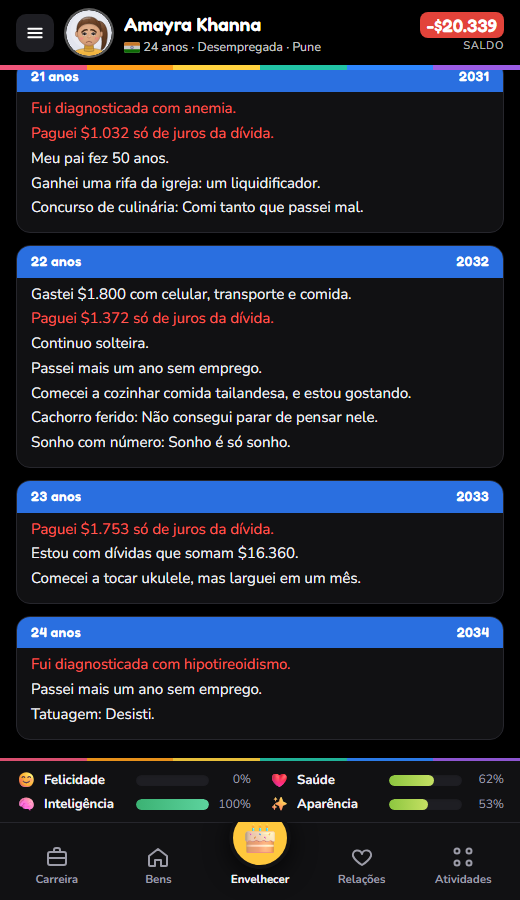
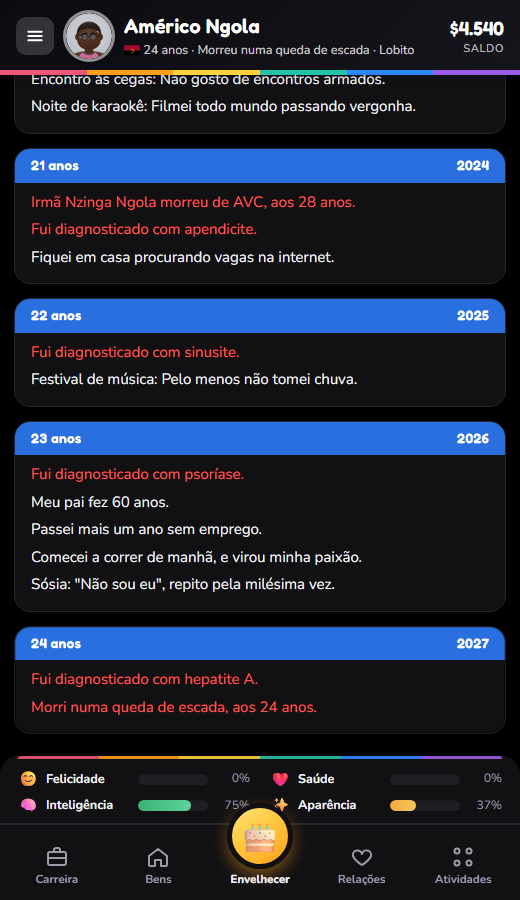
v1.8: visual novo
O botão de Envelhecer não fica mais cortado (a barra de baixo passa por
cima dos atributos). Cabeçalho em degradê, cartões e painéis mais
arredondados, alça nos painéis, animação nas janelas de evento, botões e
seções novos. Imagens do README atualizadas.

diff --git a/src/style.css b/src/style.css
@@ -229,3 +229,87 @@ input.in,select.in{font:inherit;color:var(--ink);background:var(--surface);borde
 /* aventura (modos fictícios) */
 #nav .scic{font-size:22px;line-height:24px;height:24px}
 .scy h3 span:last-child{max-width:62%;text-align:right;white-space:nowrap;overflow:hidden;text-overflow:ellipsis}
+
+/* ================= Visual 1.8: acabamento geral ================= */
+:root{ --r-card:16px; --r-row:14px; --shadow-sm:0 1px 2px rgba(20,28,60,.06),0 2px 8px rgba(20,28,60,.06); --shadow-md:0 4px 14px rgba(20,28,60,.12); --brand-grad:linear-gradient(135deg,#2E6BFF 0%,#4F86FF 55%,#6C5CE7 100%); --sun-grad:linear-gradient(145deg,#FFE27A 0%,#FFC83D 45%,#FF9F1C 100%); }
+@media (prefers-color-scheme: dark){ :root:not([data-theme="light"]){ --shadow-sm:none; --shadow-md:0 6px 20px rgba(0,0,0,.6); --brand-grad:linear-gradient(135deg,#0B0B10,#15151C); } }
+:root[data-theme="dark"]{ --shadow-sm:none; --shadow-md:0 6px 20px rgba(0,0,0,.6); --brand-grad:linear-gradient(135deg,#0B0B10,#15151C); }
+/* cabeçalho com degradê, avatar com anel e dinheiro em pílula */
+#hdr{background:var(--brand-grad);padding:12px 16px 16px;box-shadow:0 2px 10px rgba(20,28,60,.18);z-index:3}
+#hdr .avatar{box-shadow:0 0 0 3px rgba(255,255,255,.55),0 3px 10px rgba(0,0,0,.25);transition:transform .2s}
+#hdr .avatar:hover{transform:scale(1.05)}
+#hName{font-size:20px;letter-spacing:.01em}
+#hMoney{font-size:19px}
+#hdr .icon-btn{background:rgba(255,255,255,.16);backdrop-filter:blur(4px);transition:background .2s}
+#hdr .icon-btn:hover{background:rgba(255,255,255,.26)}
+/* diário: cartões mais leves e legíveis */
+#log{gap:14px;padding:14px 14px 22px;scroll-behavior:smooth}
+.yr{border-radius:var(--r-card);box-shadow:var(--shadow-sm);padding:0 16px 10px}
+.yr h3{margin:0 -16px 8px;padding:7px 16px;font-size:13.5px;border-radius:0}
+.yr p{margin:5px 0;line-height:1.5}
+.yr p.choice{font-style:italic;font-size:14px}
+.yr p.choice::before{content:"↳ ";font-style:normal;opacity:.6}
+.yr:last-child{box-shadow:var(--shadow-md);outline:2px solid color-mix(in srgb,var(--brand) 22%,transparent);outline-offset:-2px}
+/* atributos: cartão arredondado que encosta na barra de baixo */
+#stats{border-radius:18px 18px 0 0;box-shadow:0 -4px 16px rgba(20,28,60,.08);padding:14px 18px 10px;gap:8px 20px;z-index:2}
+#stats::before{border-radius:18px 18px 0 0;left:18px;right:18px;top:0;height:3px}
+.bar,.rbt{border-radius:99px}
+.bar i,.rbt i{border-radius:99px}
+.st b{font-size:12.5px}
+/* barra de navegação: o bolo de Envelhecer fica por cima de tudo, inteiro */
+#nav{position:relative;z-index:6;overflow:visible;padding-top:8px;box-shadow:0 -1px 0 var(--line)}
+#nav button{border-radius:12px;transition:color .15s,background .15s,transform .1s}
+#nav button:not(.age):hover{background:var(--surface2)}
+#nav button:not(.age):active{transform:scale(.94)}
+#nav .age{position:relative;z-index:7}
+#nav .age .plus{width:66px;height:66px;margin-top:-34px;background:var(--sun-grad);border:5px solid var(--surface);box-shadow:0 6px 16px rgba(255,159,28,.45),0 2px 4px rgba(0,0,0,.12);font-size:31px;transition:transform .15s ease,box-shadow .2s;position:relative}
+#nav .age .plus::after{content:"";position:absolute;inset:-5px;border-radius:50%;box-shadow:0 0 0 0 rgba(255,200,61,.55);animation:agePulse 2.6s ease-out infinite}
+@keyframes agePulse{0%{box-shadow:0 0 0 0 rgba(255,200,61,.5)}70%{box-shadow:0 0 0 12px rgba(255,200,61,0)}100%{box-shadow:0 0 0 0 rgba(255,200,61,0)}}
+#nav .age:hover .plus{transform:translateY(-2px) rotate(-6deg)}
+#nav .age:active .plus{transform:scale(.92)}
+#nav .age span{font-weight:800}
+@media (prefers-reduced-motion:reduce){#nav .age .plus::after{animation:none}}
+/* painéis: alça no topo, cantos mais redondos */
+.sheet{border-radius:24px 24px 0 0;box-shadow:0 -8px 30px rgba(10,14,30,.25)}
+.sheet::before{content:"";display:block;width:42px;height:5px;border-radius:99px;background:var(--line);margin:8px auto 0}
+.sheet-head{padding:8px 14px 12px}
+.sheet-head h2{font-size:20px}
+.sheet-body{gap:9px;padding:12px 14px calc(22px + env(safe-area-inset-bottom,0px))}
+.sec{display:flex;align-items:center;gap:8px;margin:12px 4px 2px;font-size:11.5px}
+.sec::before{content:"";width:4px;height:14px;border-radius:4px;background:currentColor;opacity:.85}
+/* linhas e cartões */
+.row,.card{border-radius:var(--r-row);box-shadow:var(--shadow-sm)}
+.row{padding:12px 14px;min-height:56px;transition:transform .12s ease,box-shadow .15s,border-color .15s}
+button.row:hover{transform:translateY(-1px);box-shadow:var(--shadow-md)}
+button.row:active{transform:scale(.985)}
+.row .l{font-size:15px}
+.row .s{margin-top:1px;line-height:1.35}
+.row.dis{opacity:.55;filter:saturate(.6)}
+.ic{border-radius:13px;background:linear-gradient(145deg,var(--surface2),color-mix(in srgb,var(--surface2) 70%,var(--brand) 12%))}
+.card{padding:14px 16px}
+.kv{padding:6px 0}
+/* botões */
+.btn{border-radius:14px;padding:13px 16px;transition:transform .1s,filter .15s,box-shadow .15s;box-shadow:0 3px 10px rgba(46,107,255,.25)}
+.btn:not(.alt):not(.sun):not(.danger){background:linear-gradient(135deg,#2E6BFF,#5B8CFF)}
+.btn:hover{filter:brightness(1.05)}
+.btn:active{transform:scale(.97)}
+.btn.alt{box-shadow:none;border:1px solid var(--line)}
+.btn.sun{background:var(--sun-grad);box-shadow:0 3px 10px rgba(255,159,28,.3)}
+.btn.danger{background:linear-gradient(135deg,#E2433A,#FF6B5E);box-shadow:0 3px 10px rgba(226,67,58,.3)}
+/* janelas de evento */
+.modal{border-radius:22px;padding:20px 18px 18px;box-shadow:0 20px 60px rgba(10,14,30,.35);animation:pop .22s cubic-bezier(.2,1.3,.4,1)}
+@keyframes pop{from{transform:scale(.92);opacity:0}to{transform:none;opacity:1}}
+.modal .kick{display:inline-block;background:var(--surface2);border-radius:99px;padding:3px 10px;font-size:11px;color:var(--brand)}
+.modal h2{font-size:22px;margin:8px 0 8px}
+.modal .txt{font-size:15.5px;line-height:1.55}
+.modal .choices{gap:9px;margin-top:16px}
+.mtop{margin:-2px 0 6px}
+.overlay{background:rgba(10,14,30,.55);backdrop-filter:blur(3px)}
+@media (prefers-color-scheme: dark){ :root:not([data-theme="light"]) .modal .kick{color:var(--link)} }
+:root[data-theme="dark"] .modal .kick{color:var(--link)}
+/* detalhes */
+.chip{transition:background .15s}
+.ribbon{box-shadow:0 4px 12px rgba(255,159,28,.35)}
+#log::-webkit-scrollbar,.sheet-body::-webkit-scrollbar{width:6px}
+#log::-webkit-scrollbar-thumb,.sheet-body::-webkit-scrollbar-thumb{background:var(--line);border-radius:99px}
+#stats{padding-bottom:30px} @media (max-width:420px){ #stats{padding-bottom:34px} }

diff --git a/src/update.js b/src/update.js
@@ -3,6 +3,7 @@
 // Depois de cada atualização, o jogo mostra o que mudou num popup, uma vez só.
 // Ao lançar uma versão nova: acrescente uma entrada NO TOPO de CHANGELOG.
 const CHANGELOG=[
+  {v:'1.8',d:'14/10/2026',t:'Visual novo',itens:['O botão de Envelhecer não fica mais cortado: o bolo aparece inteiro, com brilho pulsando.','Cabeçalho em degradê, cartões e painéis mais arredondados, janelas de evento com animação e botões novos.','Seções com marcador colorido e alça nos painéis para ficar com cara de app.']},
   {v:'1.7',d:'14/10/2026',t:'Conquistas e selos novos',itens:['73 conquistas, muitas zoeiras e várias secretas, que valem para todas as vidas. Veja em Menu → Conquistas.','Selos novos no fim da vida: Ditador, Filho da noite, Profeta, Detetive, Viajante de mundos, Fogo no rabo e Lobo solitário.','"Fazer amor" substitui "Tentar ter um filho" (a partir dos 18): dá felicidade e, sem proteção, pode vir um bebê.']},
   {v:'1.6.2',d:'14/10/2026',t:'Tela de atualização',itens:['Quando o app se atualiza, aparece um anel de progresso colorido com a música do jogo, notinhas subindo e dicas.','Ao terminar, o jogo abre sozinho na versão nova.']},
   {v:'1.6.1',d:'14/10/2026',t:'Novidades na tela',itens:['Depois de cada atualização, este quadro mostra o que mudou (uma vez só).','Menu → Novidades mostra o histórico de versões quando você quiser.']},

diff --git a/src/scen.js b/src/scen.js
@@ -376,7 +376,7 @@ function scEvents(n){ const sc=S.scen, m=S.me; if(!sc) return;
   let elig=Object.entries(EVENTS).filter(([id,e])=>e.scen===sc.id&&e.w&&!(sc.ev[id]!=null&&sc.dia-sc.ev[id]<(e.cd||25))&&(()=>{ try{ return !e.when||e.when(m); }catch(err){ return false; } })());
   while(n-->0&&elig.length){ const id=R.wpick(elig.map(([id,e])=>[id,e.w/(1+2*(sc.evN[id]||0))])); elig=elig.filter(([x])=>x!==id);
     const ev=EVENTS[id]; let d; try{ d=ev.prep?ev.prep(m):{}; }catch(err){ d=null; } if(d==null) continue; queue(id,d); sc.ev[id]=sc.dia; sc.evN[id]=(sc.evN[id]||0)+1; } }
-function scNextDay(){ const sc=S.scen, d=SM(), m=S.me; if(!sc) return;
+function scNextDay(){ const sc=S.scen; if(!sc) return; const d=SM(), m=S.me;
   sc.dia++; sc.ap=3; sc.done={}; sc.log.push({d:sc.dia,pl:'',lines:[]});
   const hasF=d.stats.some(x=>x[0]==='fome'); if(hasF) scStat('fome',(sc.id==='marte'?8:10)); scStat('san',sc.id==='heroi'?-1:-2);
   // comida estraga e o grupo come
